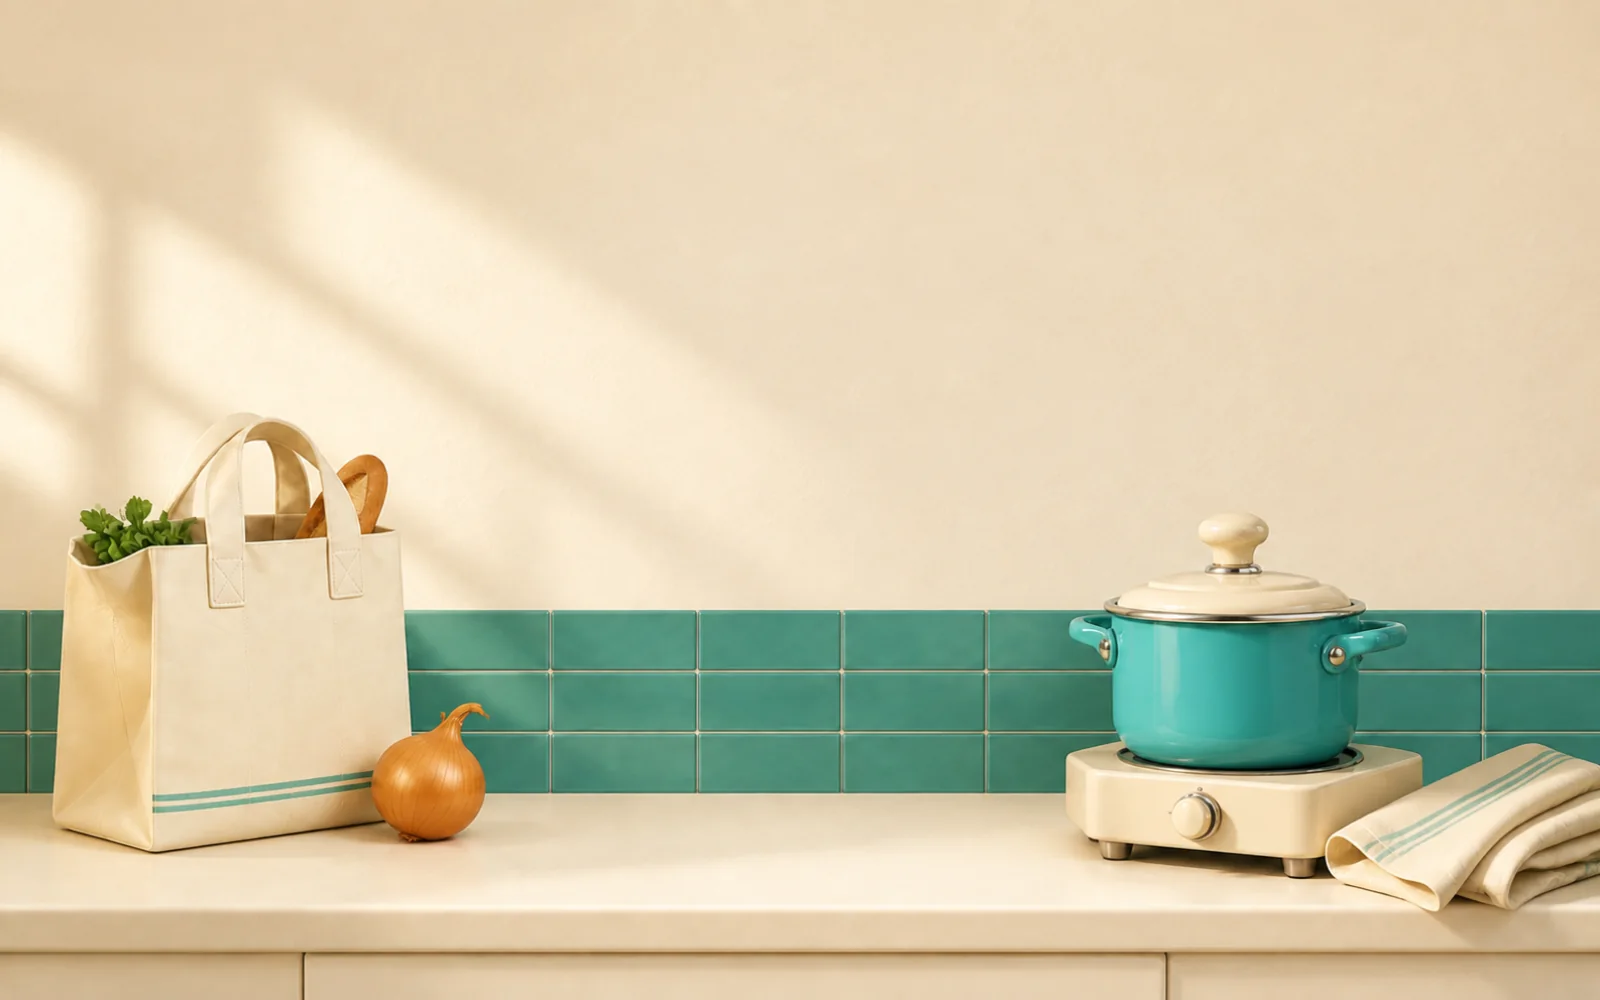
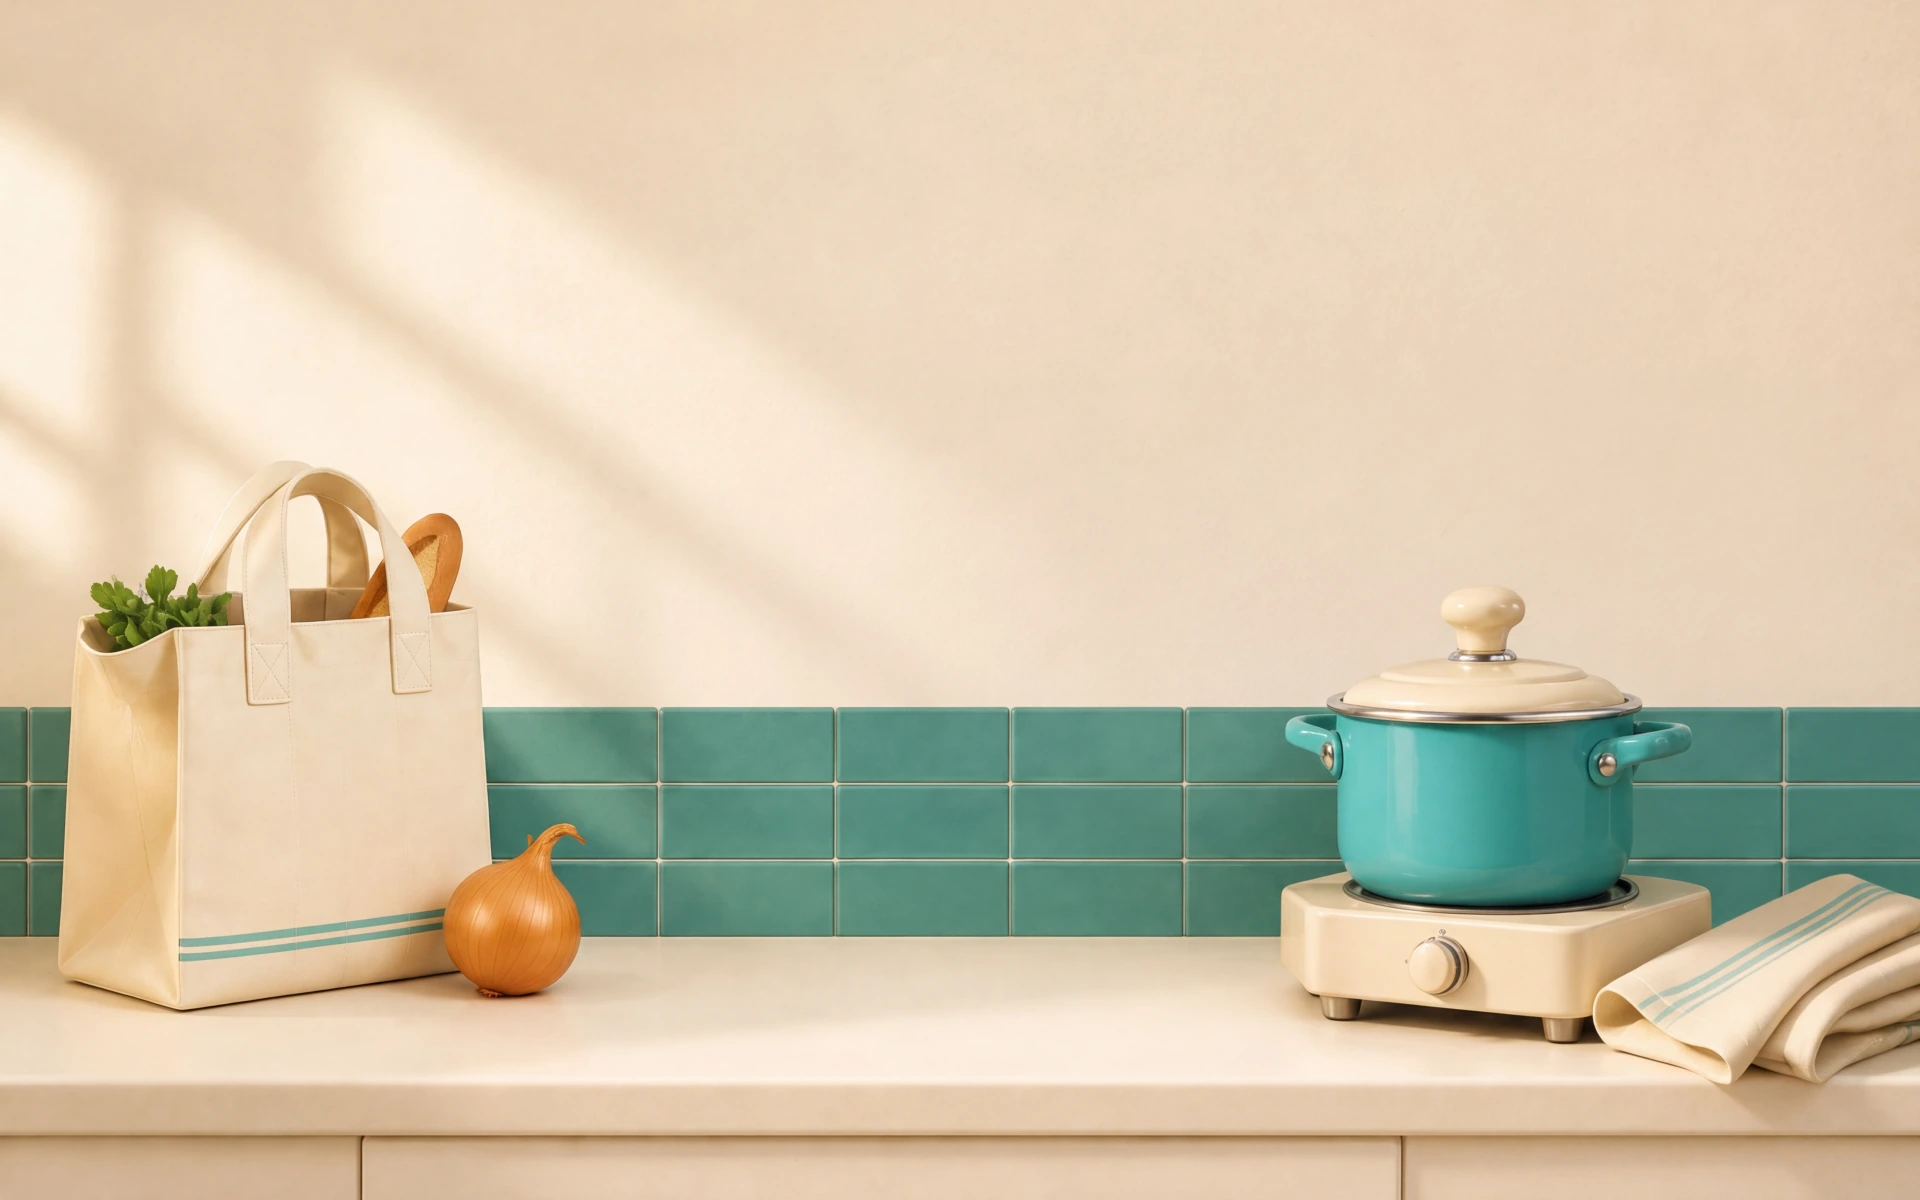
Fix starter kitchen sharpness on Retina laptops

diff --git a/src/index.css b/src/index.css
@@ -564,6 +564,10 @@
 @media (min-width: 1200px) {
   .starter-screen {
     background-image: url("/images/starter-kitchen.webp");
+    background-image: image-set(
+      url("/images/starter-kitchen.webp") 1x,
+      url("/images/starter-kitchen-retina.webp") 2x
+    );
   }
 }
 

diff --git a/DESIGN.md b/DESIGN.md
@@ -103,7 +103,7 @@ Each component below has one job. Reuse them before drawing anything new.
 
 **Dish photo.** One landscape photo above the idea plate, radius 14px, 2px `--border`, `object-fit: cover`. The full pane uses a 16:10 frame, the compact card 16:9. Older sourced photos show a credit line in Golos 12px `--muted-foreground` with a link to the source page. Generated photos have no source credit. No photo means no frame: the plate moves to the top. A failed generation or image load shows a compact inline error while the recipe remains readable.
 
-**Connection screen.** The approved [morning kitchen concept](design/mocks/starter-kitchen-reference.png) replaces the small illustration column. A full-width cream wall, teal tile backsplash, and counter frame the central login controls. This screen uses a 28px checker band instead of the shared 48px band to match the selected composition. The heading-to-button gap is 36px; the other content gaps are 24px. The grocery bag stays on the left and the pot on the right. Use `starter-kitchen.webp` from 1200px, `starter-kitchen-tablet.webp` from 640px, and `starter-kitchen-mobile.webp` below it. Cover the page without stretching and align the image to the bottom. The mobile composition keeps both objects visible. A separate transparent `starter-sign.webp` hangs above the live heading "Що приготуємо сьогодні?". The lime connection button, phone-login note, busy state, and persistent errors remain real UI. The sign is decorative, and image failures leave usable text and controls. Keep the scene static and use a minimum page height with normal scrolling on short screens.
+**Connection screen.** The approved [morning kitchen concept](design/mocks/starter-kitchen-reference.png) replaces the small illustration column. A full-width cream wall, teal tile backsplash, and counter frame the central login controls. This screen uses a 28px checker band instead of the shared 48px band to match the selected composition. The heading-to-button gap is 36px; the other content gaps are 24px. The grocery bag stays on the left and the pot on the right. Use `starter-kitchen.webp` from 1200px, `starter-kitchen-tablet.webp` from 640px, and `starter-kitchen-mobile.webp` below it. Cover the page without stretching and align the image to the bottom. Desktop uses `image-set()` to choose the 1920 × 1200 standard export or the 3840 × 2400 Retina export. Inspect background detail at actual 2× device density, including the enlargement caused by `cover`; a 1× screenshot is not sufficient for full-screen artwork. The mobile composition keeps both objects visible. A separate transparent `starter-sign.webp` hangs above the live heading "Що приготуємо сьогодні?". The lime connection button, phone-login note, busy state, and persistent errors remain real UI. The sign is decorative, and image failures leave usable text and controls. Keep the scene static and use a minimum page height with normal scrolling on short screens.
 
 **Profile menu.** An ink tag in the top right with the user icon and the person's name, with "Профіль" as the fallback, opening a shadcn dropdown: 2px ink border, radius 14px, items in Golos 600 15px with teal icons. Under the name, "Телефон:" and "Пошта:" rows in Golos 13px show the value blurred as scrambled characters of the same length, so the row does not change width when a tap reveals it. Phone numbers stay on one line, and long email addresses wrap within the menu. "Вийти" is the destructive item and sits last after a separator.
 

diff --git a/design/starter-kitchen-prompts.md b/design/starter-kitchen-prompts.md
@@ -47,3 +47,13 @@ WebP quality 84. Desktop 1600 × 1000, mobile 780 × 1688, sign 384 × 394 with 
 ## Tablet scene
 
 Adapt the desktop background to a square composition. Preserve both objects in the lower 35 percent, extend the continuous cream wall through the upper 65 percent, and keep all text and UI out of the asset. Preserve the desktop materials, lighting, and camera without stretching.
+
+## Retina desktop correction, 2026-09-08
+
+The original 1600 × 1000 export supplied only 55.6% of the dimensions needed at a 1440 × 900 CSS viewport with device pixel ratio 2. The built-in regeneration still returned 1586 × 992 despite a larger-size prompt. The user authorized OpenRouter for native high-resolution generation.
+
+Used OpenRouter’s official `openrouter-images` edit script and `google/gemini-3.1-flash-image-preview`, requesting `resolution: 4K` and `aspect_ratio: 3:2`. The returned JPEG is 5056 × 3392. Source: `design/sources/starter-kitchen-4k.jpg`. The crop removes 232px of blank upper wall, producing 5056 × 3160 before downsampling. No image was upscaled.
+
+Restore this exact approved kitchen background as a native 4K high-detail render for a Retina desktop. Preserve the composition, camera, perspective, object sizes and positions, warm cream wall, soft sunlight, teal tiled backsplash, grocery bag and onion on the left, teal enamel pot on a cream hotplate and folded towel on the right. The upper and central wall must remain empty for live website controls. Keep every object and edge in sharp focus: visible fine canvas weave and stitching, clean tile grout lines, individual parsley leaves, fine onion skin, crisp enamel and chrome highlights. Do not introduce blur, depth of field, haze, smoothing, new objects, lettering, UI, signs, logos or borders. This is a detail restoration, not a redesign. Adapt the original 16:10 composition to 3:2 only by a small extension of the blank upper wall, never stretch objects.
+
+Exports use cwebp method 6: standard 1920 × 1200 at quality 92, 97,462 bytes; Retina 3840 × 2400 at quality 95, 502,840 bytes. Native CSS `image-set()` selects the density; the single-URL declaration remains as fallback. Mobile, tablet, sign, layout, and authentication behavior are unchanged. Candidate mobile/tablet rerenders were not integrated because they changed the approved composition or introduced lettering.

diff --git a/design-qa.md b/design-qa.md
@@ -32,3 +32,18 @@ The reference and desktop screenshot were opened together in the same comparison
 ## Limits
 
 The fixture verifies local UI behavior, not a new login with a real account. No authentication, cart, or backend code changed. The regenerated artwork has small material and lighting differences from the concept; the selected composition and product behavior are preserved.
+
+## Retina correction, 2026-09-08
+
+The original 1600 × 1000 desktop export was too small for a Retina laptop. At 1440 × 900 CSS pixels and device scale factor 2, the background needs 2880 × 1800 physical pixels. The earlier 1× screenshots missed this defect.
+
+The replacement comes from a native 5056 × 3392 OpenRouter generation. Desktop now selects a 1920 × 1200 WebP at 1× and a 3840 × 2400 WebP at 2× through `image-set()`. The exports are downsampled, not enlarged. The Retina file is 502,840 bytes. Mobile and tablet retain their existing compositions.
+
+- Fresh Chromium contexts confirmed that 2× desktop requests only the Retina scene and 1× desktop requests only the standard scene.
+- `design/mocks/starter-kitchen-retina-1440.png` captures 1440 × 900 CSS pixels at 2×, producing 2880 × 1800 image pixels.
+- At 1728 × 1000 CSS pixels and 2×, `cover` needs 3456 × 2160 source pixels before cropping. The Retina export covers that size without enlargement.
+- Native-size before and after crops show clearer pot edges, fabric stitching, and tile grout. This is a visual comparison because generation also changed small material details.
+- The 900px tablet and 390px mobile checks select their existing assets and have no horizontal overflow.
+- Keyboard focus reaches the live connection button. The authentication-error fixture retains its visible Ukrainian alert and enabled button.
+- Aborting the actual Retina asset request in a fresh 2× context leaves the Ukrainian heading, note, and button legible on the cream fallback. Tab focuses the button and Enter activates its busy state.
+- No animation or application logic changed.
